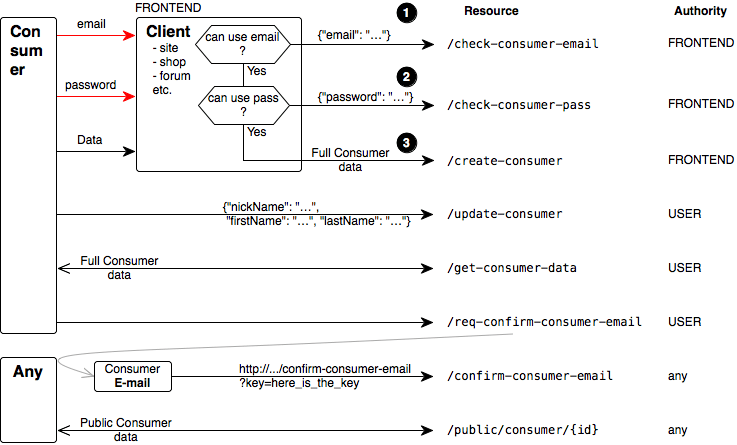
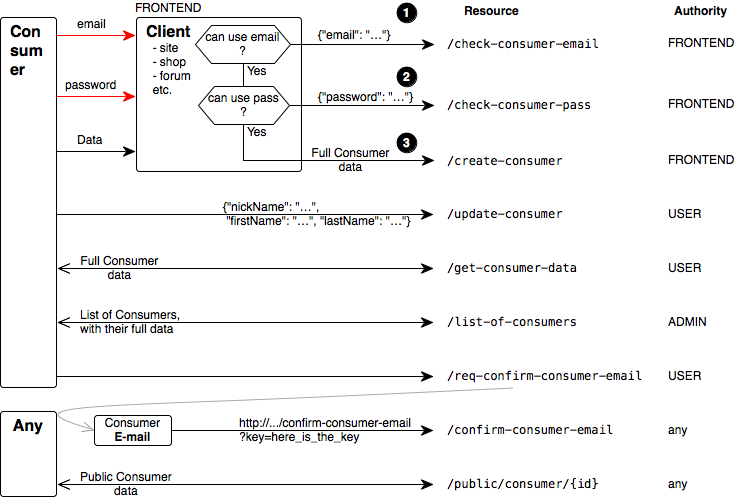
/list-of-consumers

diff --git a/src/main/java/ru/dwfe/net/authtion/AppControllerV1.java b/src/main/java/ru/dwfe/net/authtion/AppControllerV1.java
@@ -51,13 +51,6 @@ public class AppControllerV1
         return "{\"cities\": true}";
     }
 
-    @RequestMapping(API + resource_users)
-    @PreAuthorize("hasAuthority('ADMIN')")
-    public List<Consumer> users()
-    {
-        return consumerService.findAll();
-    }
-
     @RequestMapping(value = API + resource_checkConsumerEmail, method = POST)
     @PreAuthorize("hasAuthority('FRONTEND')")
     public String checkConsumerEmail(@RequestBody String body)
@@ -196,6 +189,13 @@ public class AppControllerV1
     public String getConsumerData(OAuth2Authentication authentication)
     {
         return getResponse("success", true, authentication.getPrincipal().toString());
+    }
+
+    @RequestMapping(API + resource_listOfConsumers)
+    @PreAuthorize("hasAuthority('ADMIN')")
+    public List<Consumer> users()
+    {
+        return consumerService.findAll();
     }
 
     @RequestMapping(value = API + resource_publicConsumer + "/{id}")

diff --git a/src/test/java/ru/dwfe/net/authtion/test_util/Variables_for_AuthorityTest.java b/src/test/java/ru/dwfe/net/authtion/test_util/Variables_for_AuthorityTest.java
@@ -21,7 +21,7 @@ public class Variables_for_AuthorityTest
 
         result.put(resource_public, Map.of(ANY, Map.of(GET, Map.of())));
         result.put(resource_cities, Map.of(USER, Map.of(GET, Map.of())));
-        result.put(resource_users, Map.of(ADMIN, Map.of(GET, Map.of())));
+        result.put(resource_listOfConsumers, Map.of(ADMIN, Map.of(GET, Map.of())));
         result.put(resource_checkConsumerEmail, Map.of(FRONTEND, Map.of(POST, Map.of("email", "user"))));
         result.put(resource_checkConsumerPass, Map.of(FRONTEND, Map.of(POST, Map.of("password", "some password"))));
         result.put(resource_createConsumer, Map.of(FRONTEND, Map.of(POST, Map.of("email", "user", "password", "some password", "firstName", "some first name", "lastName", ""))));

diff --git a/src/main/java/ru/dwfe/net/authtion/Global.java b/src/main/java/ru/dwfe/net/authtion/Global.java
@@ -7,7 +7,7 @@ public class Global
     */
     public static final String resource_public = "/public";
     public static final String resource_cities = "/cities";
-    public static final String resource_users = "/users";
+    public static final String resource_listOfConsumers = "/list-of-consumers";
     public static final String resource_checkConsumerEmail = "/check-consumer-email";
     public static final String resource_checkConsumerPass = "/check-consumer-pass";
     public static final String resource_createConsumer = "/create-consumer";
